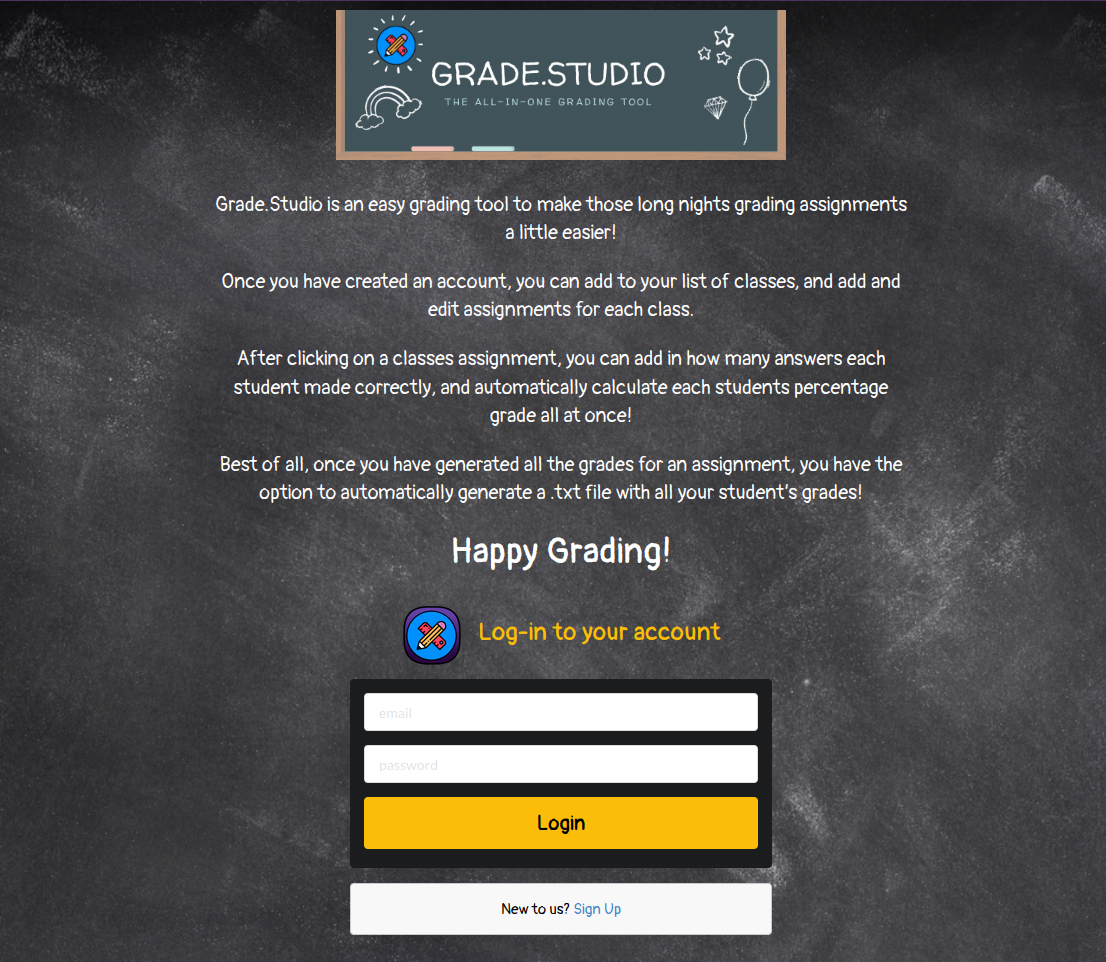
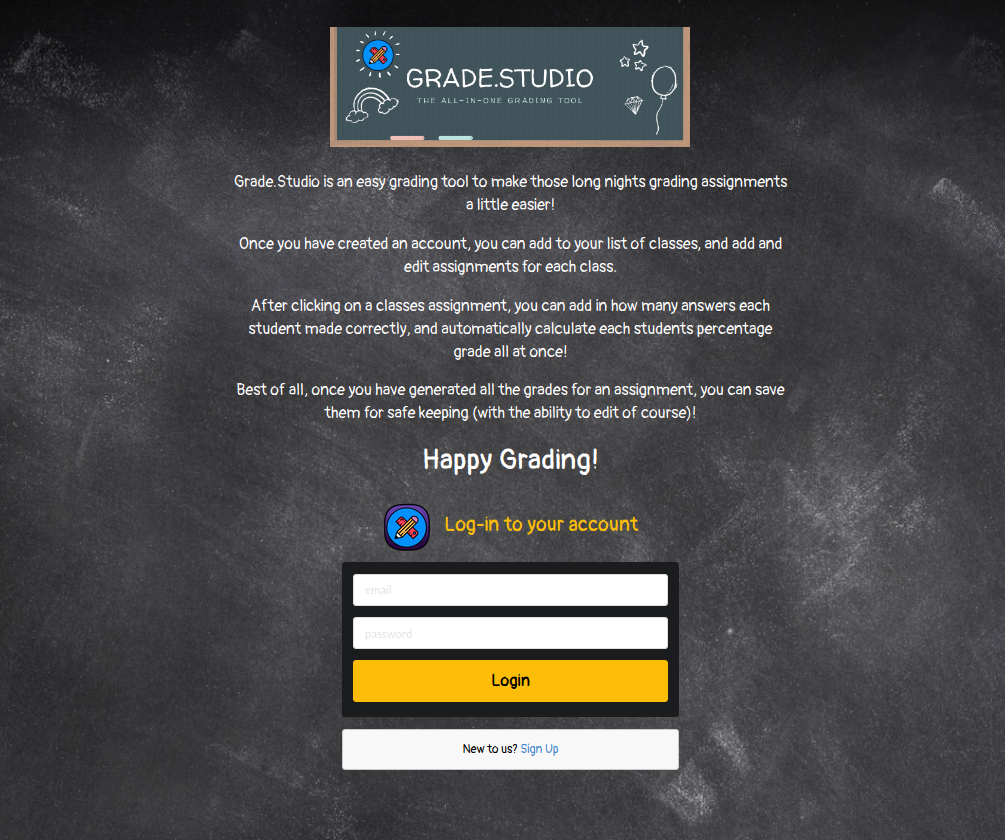
Edit WebsiteDescription and first Screenshot

diff --git a/src/components/WebsiteDescription/WebsiteDescription.jsx b/src/components/WebsiteDescription/WebsiteDescription.jsx
@@ -9,7 +9,7 @@ export default function WebsiteDescription() {
             <p>Grade.Studio is an easy grading tool to make those long nights grading assignments a little easier!</p>
             <p>Once you have created an account, you can add to your list of classes, and add and edit assignments for each class.</p>
             <p>After clicking on a classes assignment, you can add in how many answers each student made correctly, and automatically calculate each students percentage grade all at once!</p>
-            <p>Best of all, once you have generated all the grades for an assignment, you have the option to automatically generate a .txt file with all your student’s grades!</p>
+            <p>Best of all, once you have generated all the grades for an assignment, you can save them for safe keeping (with the ability to edit of course)!</p>
             <Header as='h3' size='large' style={{ fontFamily: 'Pangolin', color: 'white' }}>Happy Grading!</Header>
         </Container>
     )
